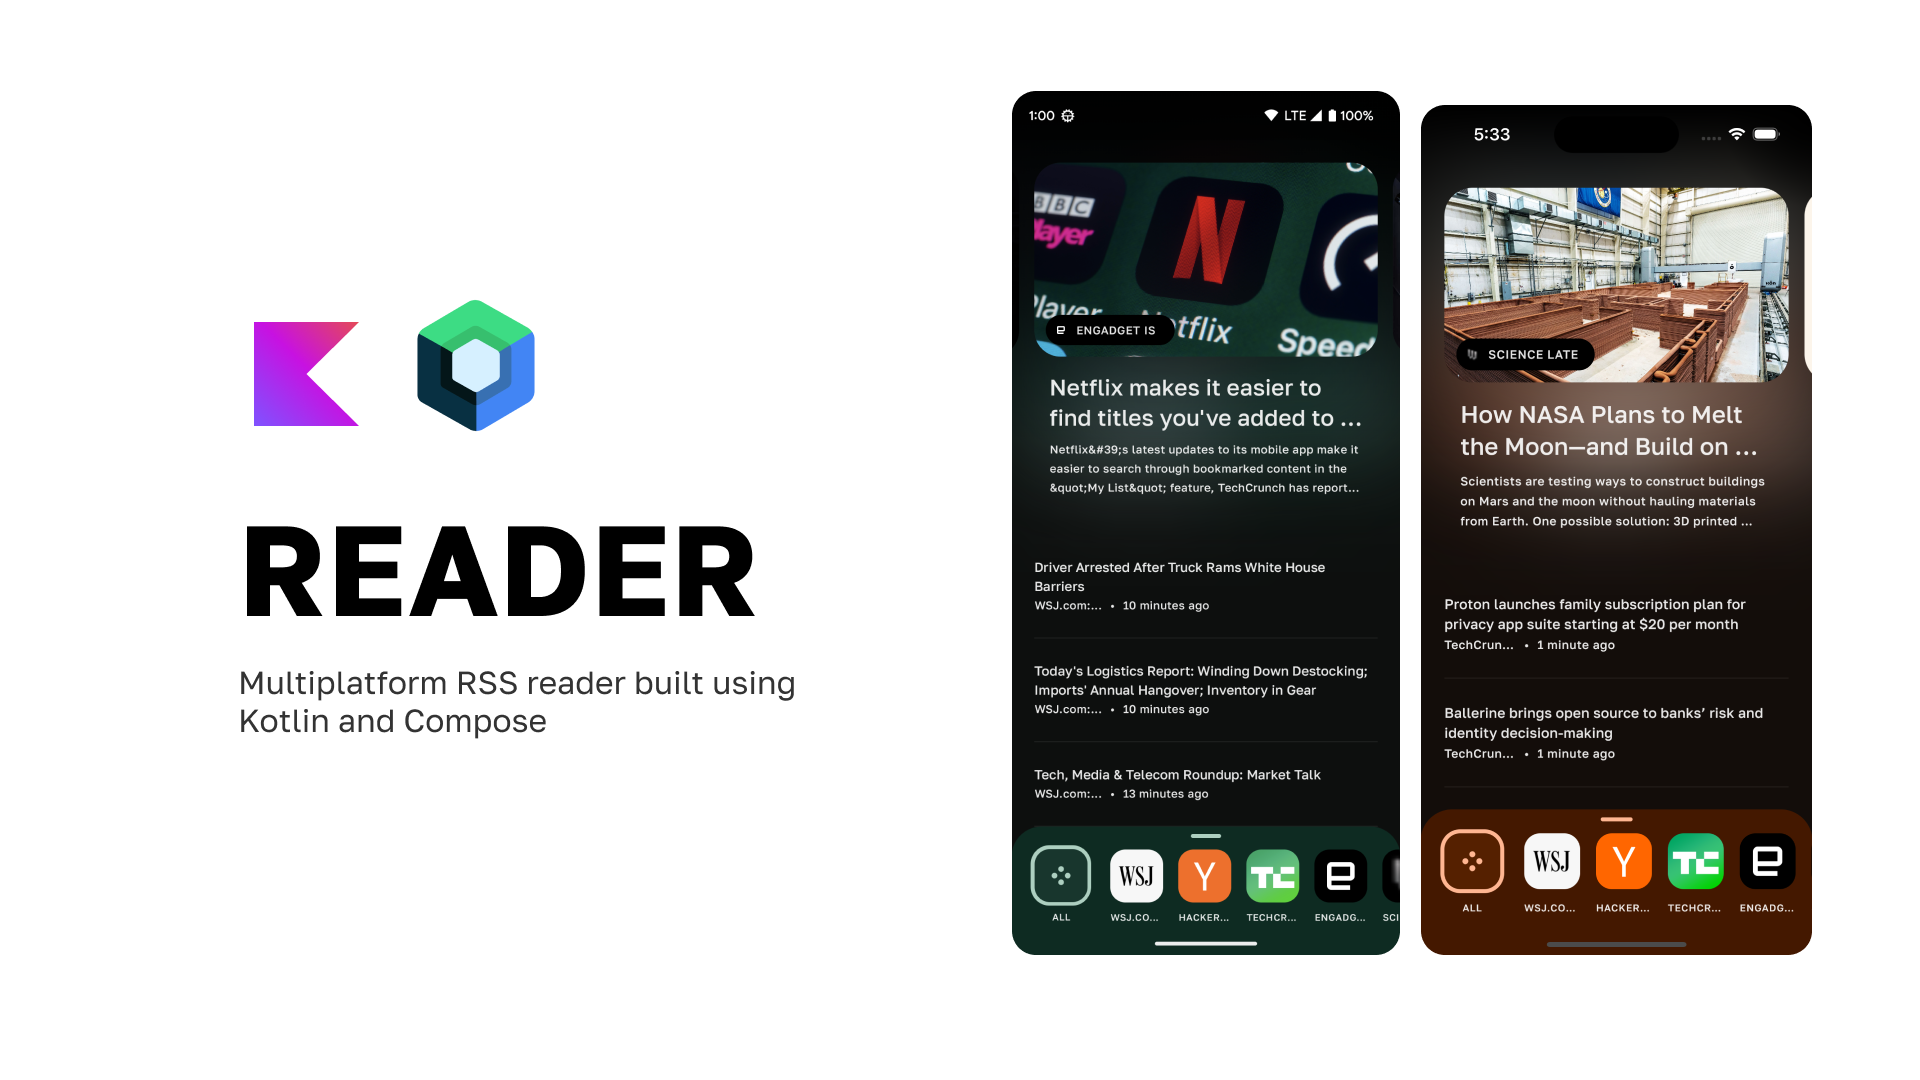
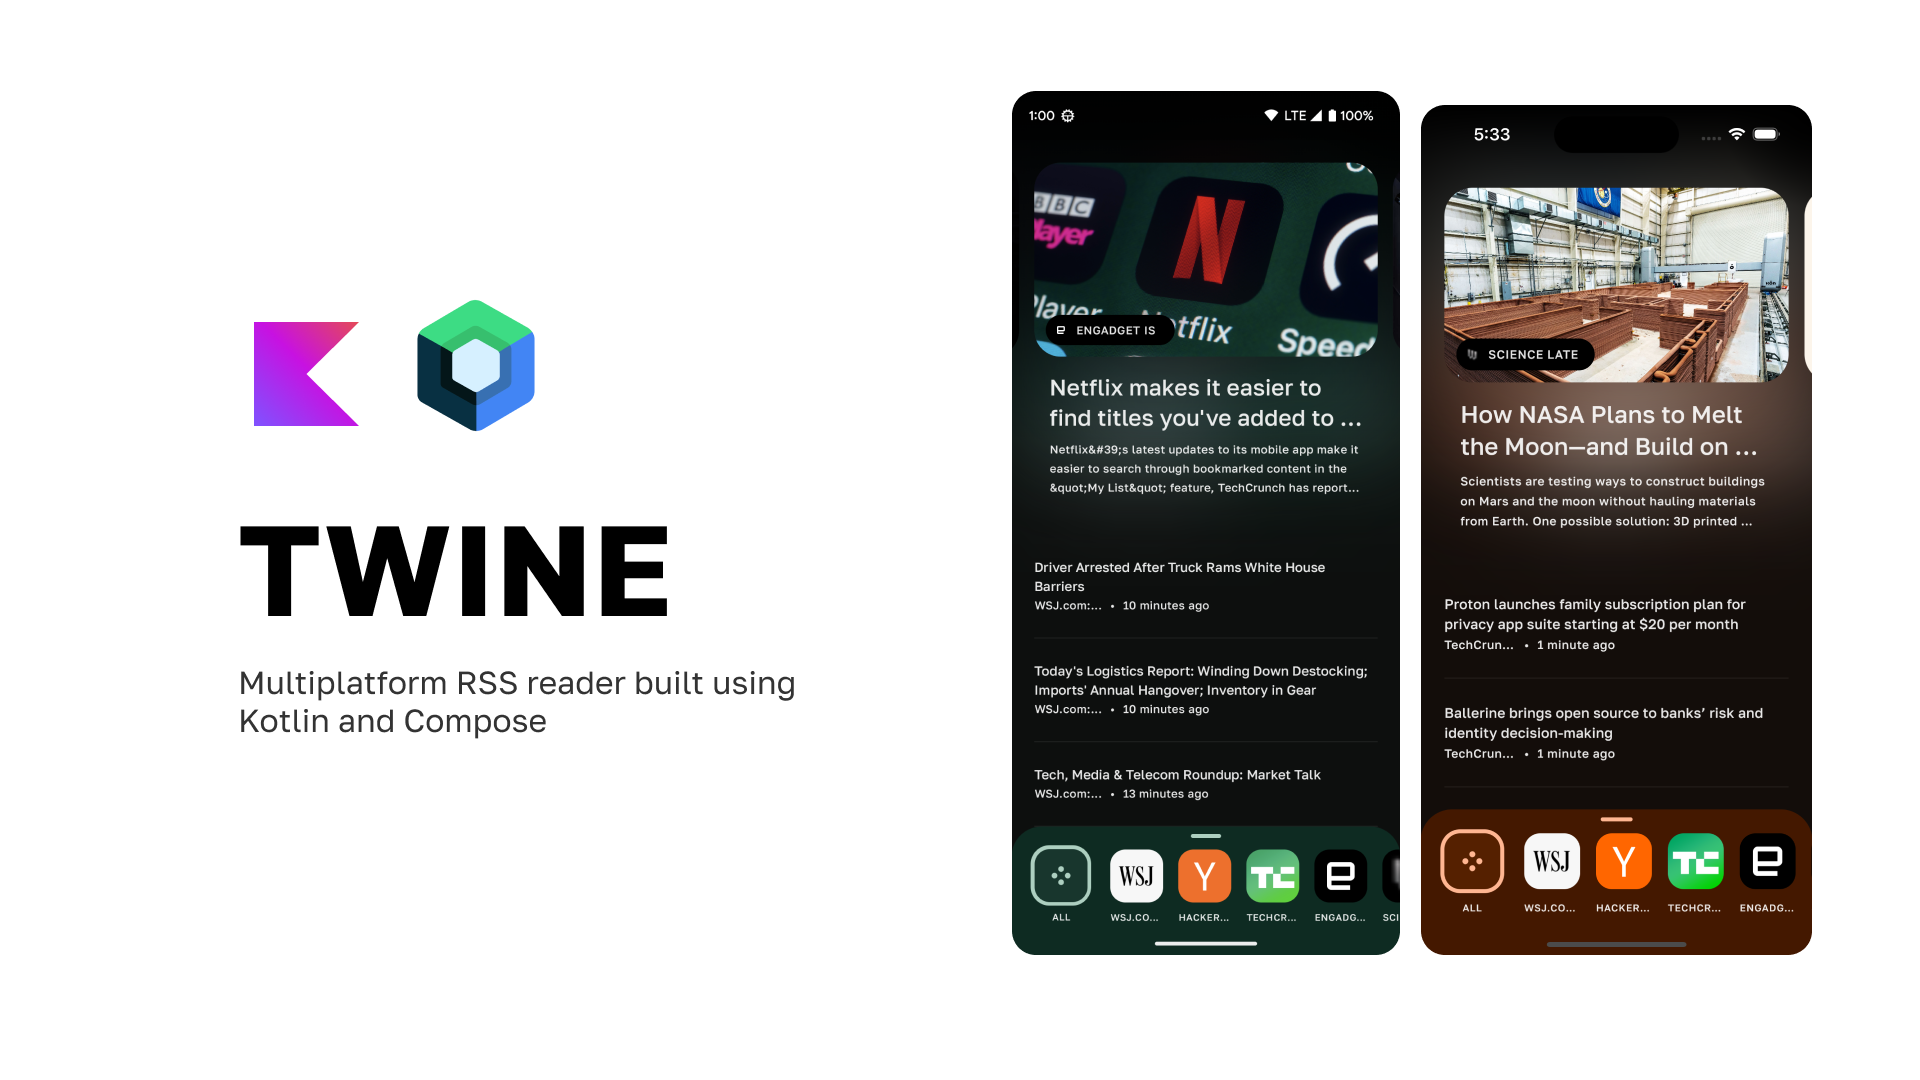
Update README

Changed region(s): [[0.125, 0.4889, 0.3125, 0.5806], [0.3438, 0.4889, 0.4062, 0.5806]]

diff --git a/README.md b/README.md
@@ -1,6 +1,6 @@
-# Reader
+# Twine
 
-![CI-MAIN](https://github.com/msasikanth/reader/actions/workflows/ci_checks.yml/badge.svg?branch=main)
+![CI-MAIN](https://github.com/msasikanth/twine/actions/workflows/ci_checks.yml/badge.svg?branch=main)
 
 ![banner](./readme_images/banner.png)
 
